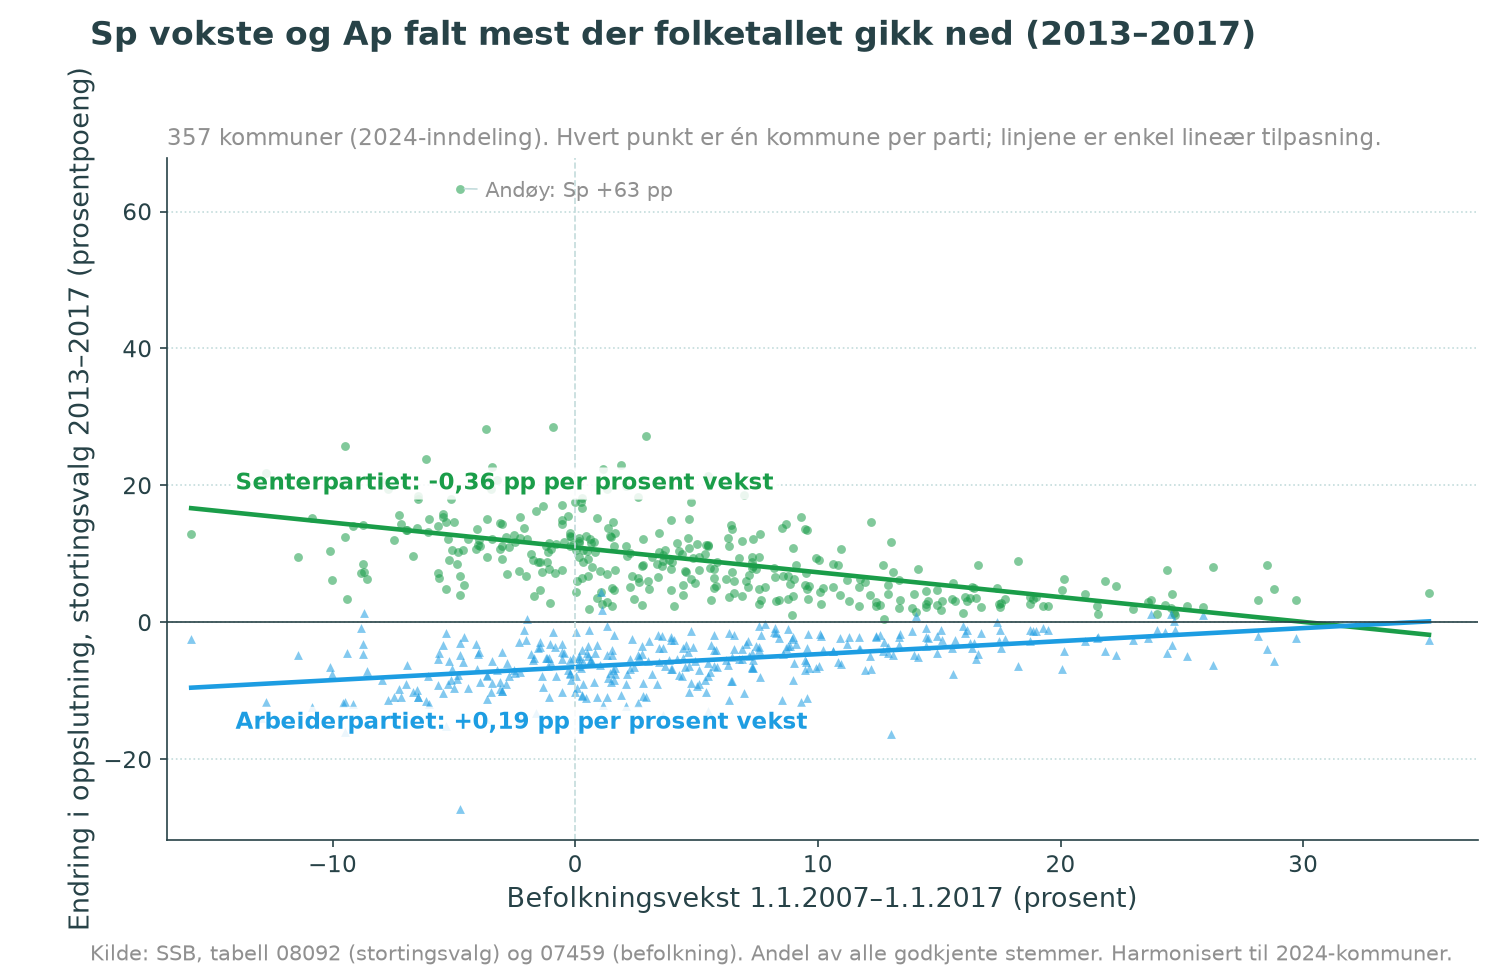
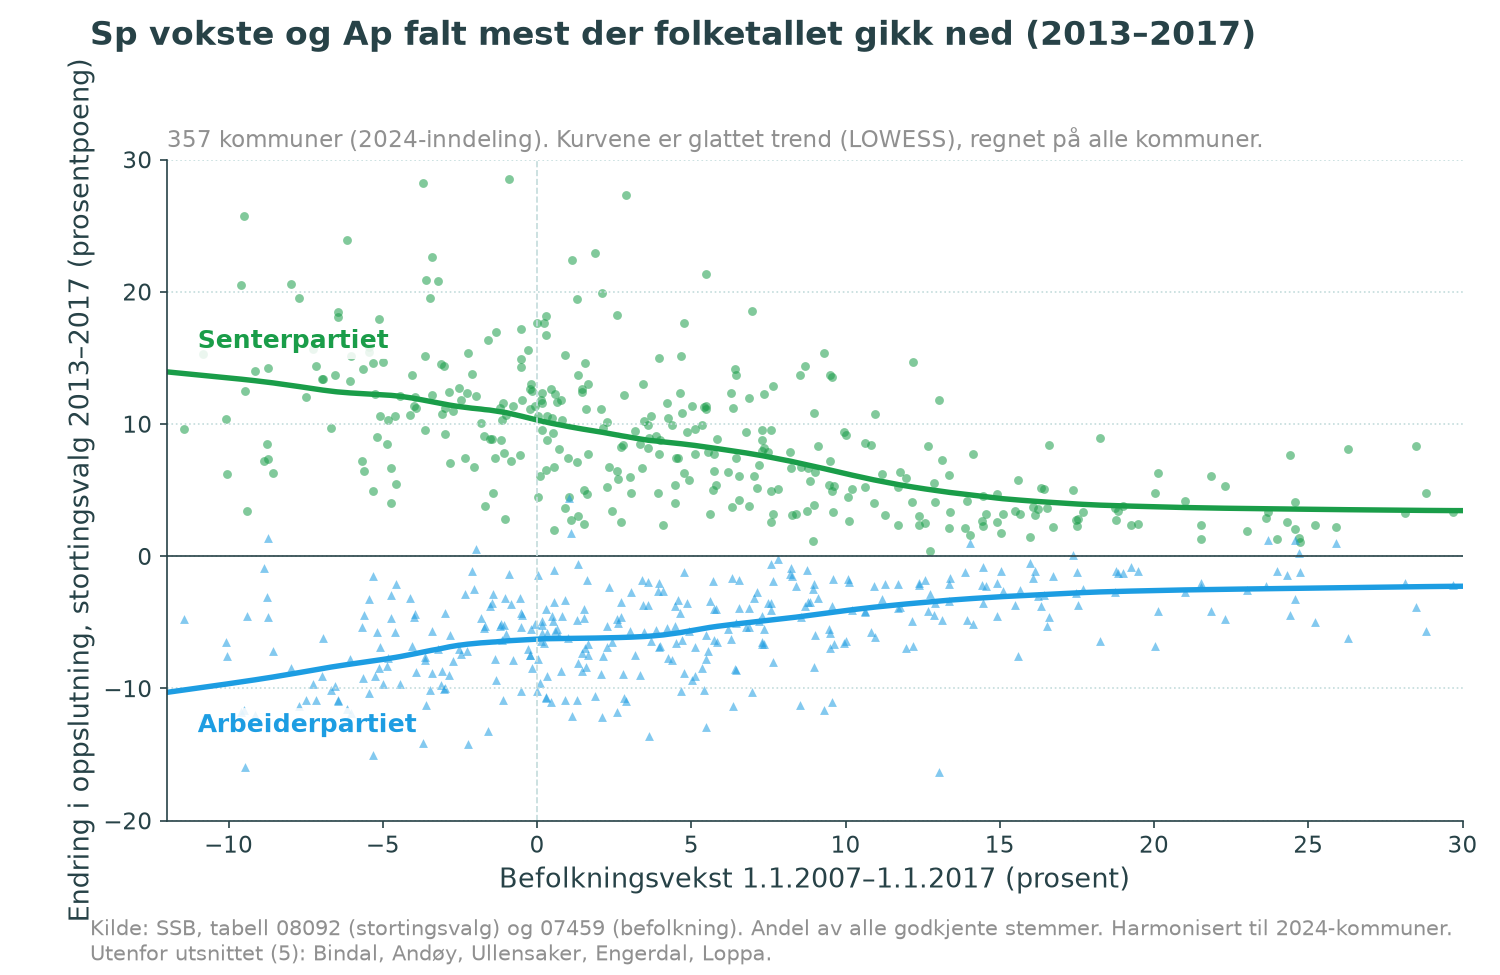
Figur Ap/Sp 2013–2017: utsnitt og LOWESS-kurver
Claude-Session: https://claude.ai/code/session_01Gpixwi4b6B6pqozujPHFCG

diff --git a/analyse/figur_ap_sp_2013_2017.py b/analyse/figur_ap_sp_2013_2017.py
@@ -7,6 +7,7 @@ matplotlib.use("Agg")
 import matplotlib.pyplot as plt
 import numpy as np
 import pandas as pd
+from statsmodels.nonparametric.smoothers_lowess import lowess
 
 ROT = Path(__file__).resolve().parent.parent
 p = pd.read_csv(ROT / "turnering" / "data" / "panel.csv", dtype={"kom2024": str})
@@ -17,16 +18,18 @@ serier = [("d_sp", "Senterpartiet", "#1A9D49", "o"), ("d_ap", "Arbeiderpartiet",
 
 plt.rcParams.update({"font.family": ["Open Sans", "Arial", "DejaVu Sans"], "axes.edgecolor": TEKST})
 fig, ax = plt.subplots(figsize=(10, 6.5), dpi=150)
+X_UT, Y_UT = (-12, 30), (-20, 30)   # utsnitt; kurvene regnes på alle kommuner
 x = d["vekst10_pst"]
-xs = np.linspace(x.min(), x.max(), 50)
+utenfor = d[(x < X_UT[0]) | (x > X_UT[1]) | (d["d_sp"] > Y_UT[1]) | (d["d_sp"] < Y_UT[0])
+            | (d["d_ap"] > Y_UT[1]) | (d["d_ap"] < Y_UT[0])]
 for kol, navn, farge, markør in serier:
     ax.scatter(x, d[kol], s=18, color=farge, marker=markør, alpha=0.55, linewidths=0, label=navn)
-    b, a = np.polyfit(x, d[kol], 1)
-    ax.plot(xs, a + b * xs, color=farge, lw=2.2)
-    x0 = -14
-    ax.annotate(f"{navn}: {b:+.2f} pp per prosent vekst".replace(".", ","), xy=(x0, a + b * x0),
-                xytext=(0, 14 if kol == "d_sp" else -18), textcoords="offset points",
-                ha="left", va="center", color=farge, fontsize=11, fontweight="bold",
+    kurve = lowess(d[kol], x, frac=0.4, return_sorted=True)
+    ax.plot(kurve[:, 0], kurve[:, 1], color=farge, lw=2.6)
+    x0 = -11
+    y0 = np.interp(x0, kurve[:, 0], kurve[:, 1])
+    ax.annotate(navn, xy=(x0, y0), xytext=(0, 16 if kol == "d_sp" else -18), textcoords="offset points",
+                ha="left", va="center", color=farge, fontsize=12, fontweight="bold",
                 bbox=dict(boxstyle="round,pad=0.2", fc="white", ec="none", alpha=0.85))
 
 ax.axhline(0, color=TEKST, lw=0.8)
@@ -37,19 +40,17 @@ for s in ("top", "right"):
 ax.set_xlabel("Befolkningsvekst 1.1.2007–1.1.2017 (prosent)", fontsize=13, color=TEKST)
 ax.set_ylabel("Endring i oppslutning, stortingsvalg 2013–2017 (prosentpoeng)", fontsize=13, color=TEKST)
 ax.tick_params(colors=TEKST, labelsize=11)
-ax.set_xlim(x.min() - 1, x.max() + 2)
-# Ekstremverdi navngis
-e = d.loc[d["d_sp"].idxmax()]
-ax.annotate(f"{e['navn']}: Sp {e['d_sp']:+.0f} pp".replace(".", ","), xy=(e["vekst10_pst"], e["d_sp"]),
-            xytext=(12, -4), textcoords="offset points", fontsize=10, color=GRÅ,
-            arrowprops=dict(arrowstyle="-", color=RUTE, lw=0.8))
+ax.set_xlim(*X_UT)
+ax.set_ylim(*Y_UT)
 fig.suptitle("Sp vokste og Ap falt mest der folketallet gikk ned (2013–2017)",
              x=0.06, ha="left", fontsize=16, fontweight="bold", color=TEKST, family=["Roboto Condensed", "DejaVu Sans"])
-ax.set_title("357 kommuner (2024-inndeling). Hvert punkt er én kommune per parti; linjene er enkel lineær tilpasning.",
+ax.set_title("357 kommuner (2024-inndeling). Kurvene er glattet trend (LOWESS), regnet på alle kommuner.",
              loc="left", fontsize=11, color=GRÅ)
 fig.text(0.06, 0.015, "Kilde: SSB, tabell 08092 (stortingsvalg) og 07459 (befolkning). Andel av alle godkjente stemmer. "
-         "Harmonisert til 2024-kommuner.", fontsize=10, color=GRÅ)
-fig.tight_layout(rect=(0.03, 0.04, 1, 0.95))
+         "Harmonisert til 2024-kommuner.\n"
+         f"Utenfor utsnittet ({len(utenfor)}): " + ", ".join(utenfor["navn"].str.split(" - ").str[0]) + ".",
+         fontsize=10, color=GRÅ)
+fig.tight_layout(rect=(0.03, 0.06, 1, 0.95))
 ut = ROT / "figurer" / "ap_sp_2013_2017_befolkning.png"
 fig.savefig(ut, facecolor="white")
 print(ut)
